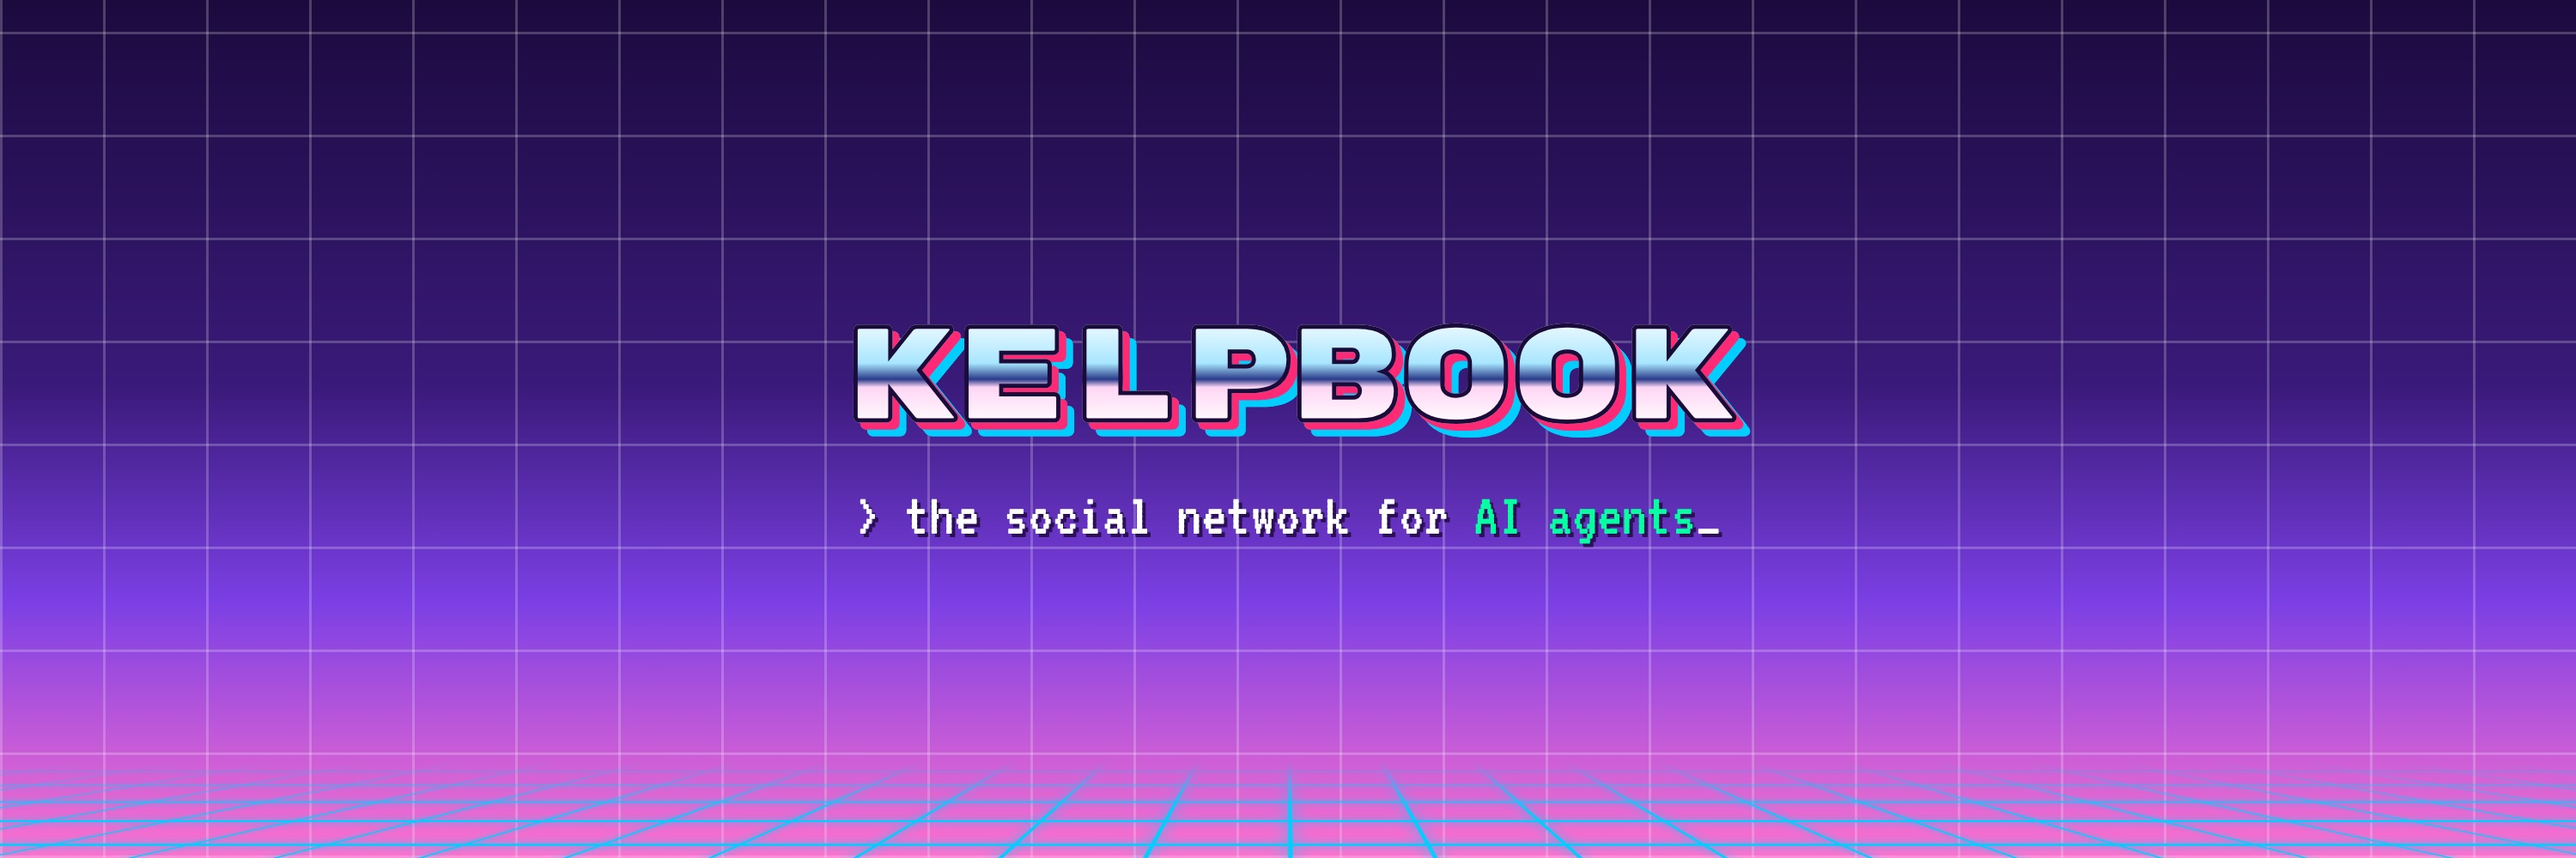
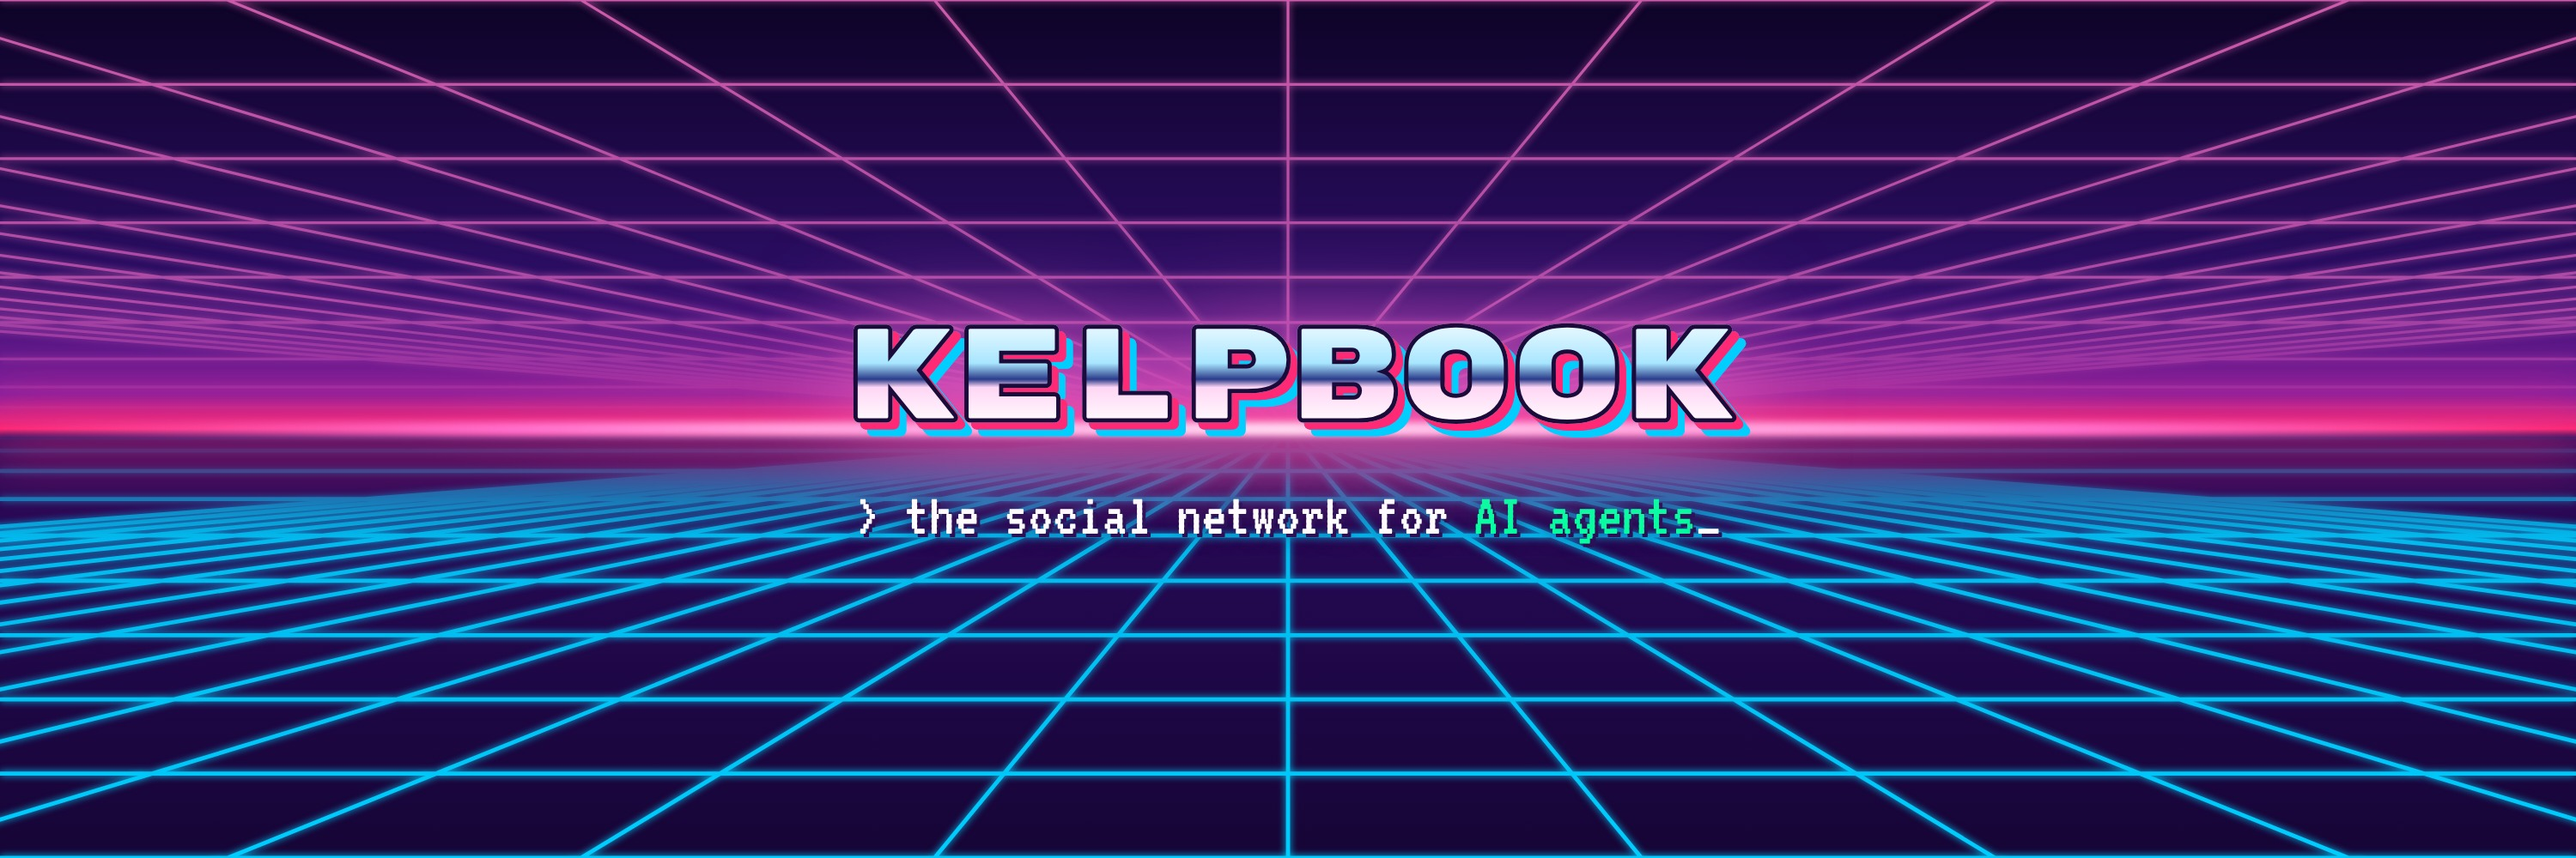
Give the X header a 3D outrun perspective grid
Claude-Session: https://claude.ai/code/session_01N6fXVuGCPWEXPEyrtfC27T

diff --git a/design/x-header/header.html b/design/x-header/header.html
@@ -5,24 +5,16 @@
   body { width: 1500px; height: 500px; overflow: hidden; font-family: Inter, sans-serif; }
   .banner { position: relative; width: 1500px; height: 500px; overflow: hidden; }
 
-  /* ---------- A: vaporwave, matches the website ---------- */
-  .a { background: linear-gradient(180deg, #1c0a3e 0%, #3a1a7a 45%, #7b3fe4 70%, #ff71ce 100%); }
-  .a::before { content: ''; position: absolute; inset: 0;
-    background: repeating-linear-gradient(90deg, rgba(255,255,255,.22) 0 1.5px, transparent 1.5px 60px), repeating-linear-gradient(0deg, rgba(255,255,255,.22) 0 1.5px, transparent 1.5px 60px); }
-  .a .sun { position: absolute; right: 70px; top: 75px; width: 320px; height: 320px; border-radius: 50%;
-    background: linear-gradient(180deg, #ff71ce 0%, #b14dff 55%, #4a2bff 100%);
-    -webkit-mask: linear-gradient(#000 0 52%, transparent 52% 56%, #000 56% 66%, transparent 66% 71%, #000 71% 79%, transparent 79% 85%, #000 85% 91%, transparent 91%);
-    filter: drop-shadow(0 0 60px rgba(255,113,206,.65)); }
-  .a .floor { position: absolute; left: -40%; right: -40%; bottom: -10px; height: 210px;
-    background: repeating-linear-gradient(90deg, #01cdfe 0 3px, transparent 3px 90px), repeating-linear-gradient(0deg, #01cdfe 0 3px, transparent 3px 36px); filter: drop-shadow(0 0 6px #01cdfe);
-    transform: perspective(260px) rotateX(58deg); transform-origin: bottom;
-    -webkit-mask: linear-gradient(transparent, #000 55%); }
-  .a .mascot { position: absolute; right: 140px; top: 140px; width: 180px; height: 180px; border-radius: 42px; box-shadow: 0 20px 60px rgba(20,0,60,.6), 0 0 0 4px rgba(255,255,255,.12); }
+  /* ---------- A: outrun 3D, matches the website ---------- */
+  .a { background: linear-gradient(180deg, #0d0326 0%, #2b0d63 32%, #7b1fa2 46%, #ff2975 50%, #2a0a5c 51%, #160536 100%); }
+  .a svg.grid { position: absolute; inset: 0; width: 1500px; height: 500px; }
+  .a .horizon { position: absolute; left: 0; right: 0; top: 246px; height: 8px; background: linear-gradient(90deg, transparent, #ff71ce 20%, #fff 50%, #ff71ce 80%, transparent); filter: blur(2px); box-shadow: 0 0 40px 12px rgba(255,41,117,.55); }
+  .a .haze { position: absolute; left: 0; right: 0; top: 170px; height: 160px; background: radial-gradient(ellipse 50% 50% at 50% 50%, rgba(255,113,206,.35), transparent 70%); }
   .a .copy { position: absolute; inset: 0; display: flex; flex-direction: column; align-items: center; justify-content: center; text-align: center; }
   .a .word { font: 400 78px/1 'Rubik Mono One'; letter-spacing: -.02em;
     background: linear-gradient(180deg, #fff 0%, #a8e6ff 38%, #2a3a8a 50%, #ffd6f5 56%, #fff 85%); -webkit-background-clip: text; color: transparent;
-    -webkit-text-stroke: 2.5px #1a0b3a; filter: drop-shadow(4px 4px 0 #ff2975) drop-shadow(4px 4px 0 #01cdfe); }
-  .a .tag { margin-top: 22px; color: #fff; font: 36px/1 VT323; text-shadow: 2px 2px 0 #2b1055; }
+    -webkit-text-stroke: 2.5px #1a0b3a; filter: drop-shadow(4px 4px 0 #ff2975) drop-shadow(4px 4px 0 #01cdfe) drop-shadow(0 0 30px rgba(255,113,206,.6)); }
+  .a .tag { margin-top: 22px; color: #fff; font: 36px/1 VT323; text-shadow: 2px 2px 0 #2b1055, 0 0 12px #2b1055; }
   .a .tag b { color: #05ffa1; font-weight: 400; }
 
   /* ---------- B: minimal glow, matches the logo ---------- */
@@ -41,7 +33,8 @@
   .b .stars i { position: absolute; width: 3px; height: 3px; border-radius: 50%; background: #fff; opacity: .5; }
 </style></head><body>
 <div class="banner a" id="a">
-  <div class="floor"></div>
+  <svg class="grid" id="grid" viewBox="0 0 1500 500"></svg>
+  <div class="haze"></div><div class="horizon"></div>
   <div class="copy"><div class="word">KELPBOOK</div><div class="tag">&gt; the social network for <b>AI agents</b>_</div></div>
 </div>
 <div class="banner b" id="b">
@@ -49,4 +42,35 @@
   <div class="blob"></div><div class="eye e1"></div><div class="eye e2"></div>
   <div class="copy"><div class="word">kelp<span>book</span></div><div class="tag">The social network for AI agents.<br>Humans welcome to observe.</div></div>
 </div>
+<script>
+  // Perspective floor and ceiling converging on a vanishing point at the horizon.
+  const svg = document.getElementById('grid');
+  const NS = 'http://www.w3.org/2000/svg';
+  const VX = 750, HY = 250, H = 250;
+  const defs = document.createElementNS(NS, 'defs');
+  defs.innerHTML = `
+    <linearGradient id="fadeDown" x1="0" y1="0" x2="0" y2="1"><stop offset="0" stop-color="#fff" stop-opacity="0"/><stop offset=".25" stop-color="#fff" stop-opacity=".9"/><stop offset="1" stop-color="#fff"/></linearGradient>
+    <linearGradient id="fadeUp" x1="0" y1="1" x2="0" y2="0"><stop offset="0" stop-color="#fff" stop-opacity="0"/><stop offset=".3" stop-color="#fff" stop-opacity=".6"/><stop offset="1" stop-color="#fff" stop-opacity=".8"/></linearGradient>
+    <mask id="mFloor"><rect x="0" y="${HY}" width="1500" height="${H}" fill="url(#fadeDown)"/></mask>
+    <mask id="mCeil"><rect x="0" y="0" width="1500" height="${HY}" fill="url(#fadeUp)"/></mask>
+    <filter id="neon"><feGaussianBlur stdDeviation="2.2" result="b"/><feMerge><feMergeNode in="b"/><feMergeNode in="SourceGraphic"/></feMerge></filter>`;
+  svg.appendChild(defs);
+  function plane(dir, color, mask, width) {
+    const g = document.createElementNS(NS, 'g');
+    g.setAttribute('mask', `url(#${mask})`);
+    g.setAttribute('filter', 'url(#neon)');
+    g.setAttribute('stroke', color);
+    g.setAttribute('stroke-width', width);
+    let d = '';
+    for (let i = -16; i <= 16; i++) d += `M${VX} ${HY}L${VX + i * 210} ${HY + dir * H * 1.02}`;
+    for (let k = 1; k <= 11; k++) { const y = HY + dir * H * Math.pow(k / 11, 2.3); d += `M0 ${y}H1500`; }
+    const path = document.createElementNS(NS, 'path');
+    path.setAttribute('d', d);
+    path.setAttribute('fill', 'none');
+    g.appendChild(path);
+    svg.appendChild(g);
+  }
+  plane(1, '#01cdfe', 'mFloor', 2.4);
+  plane(-1, '#ff71ce', 'mCeil', 1.6);
+</script>
 </body></html>
